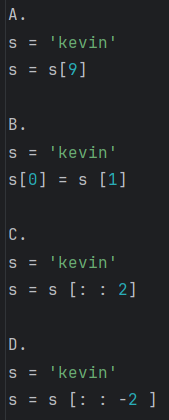
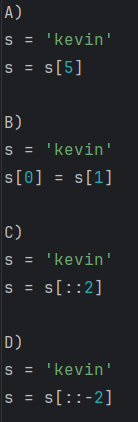
update

diff --git a/questions.js b/questions.js
@@ -4285,7 +4285,7 @@ export const questions = [
       { text: "D", correct: true },
     ],
     explanation:
-      "Explanation:<br><br>A will raise an exception. The string 'kevin' has only 5 characters, indexed from 0 to 4. Trying to access s[9] will result in an IndexError because index 9 is out of range.<br><br>B will raise an exception. Strings in Python are immutable, meaning they cannot be changed after they are created. Attempting to assign a new value to s[0] will raise a TypeError.<br><br>C will not raise an exception. The slicing operation s[::2] creates a new string by taking every second character of the original string 'kevin'. The resulting string would be 'kvi'.<br><br>D will not raise an exception. The slicing operation s[::-2] creates a new string by taking every second character of the original string 'kevin', but in reverse order. The resulting string would be 'nve'.",
+      "Explanation:<br><br>A) will raise an exception. The string 'kevin' has only 5 characters, indexed from 0 to 4. Trying to access s[5] will result in an IndexError because index 5 is out of range.<br><br>B) will raise an exception. Strings in Python are immutable, meaning they cannot be changed after they are created. Attempting to assign a new value to s[0] will raise a TypeError.<br><br>C) will NOT raise an exception. The slicing operation s[::2] creates a new string by taking every second character of the original string 'kevin'. The resulting string would be 'kvi'.<br><br>D) will NOT raise an exception. The slicing operation s[::-2] creates a new string by taking every second character of the original string 'kevin', but in reverse order. The resulting string would be 'nve'.",
     link: "https://www.w3schools.com/python/python_strings_slicing.asp",
   },
   {
